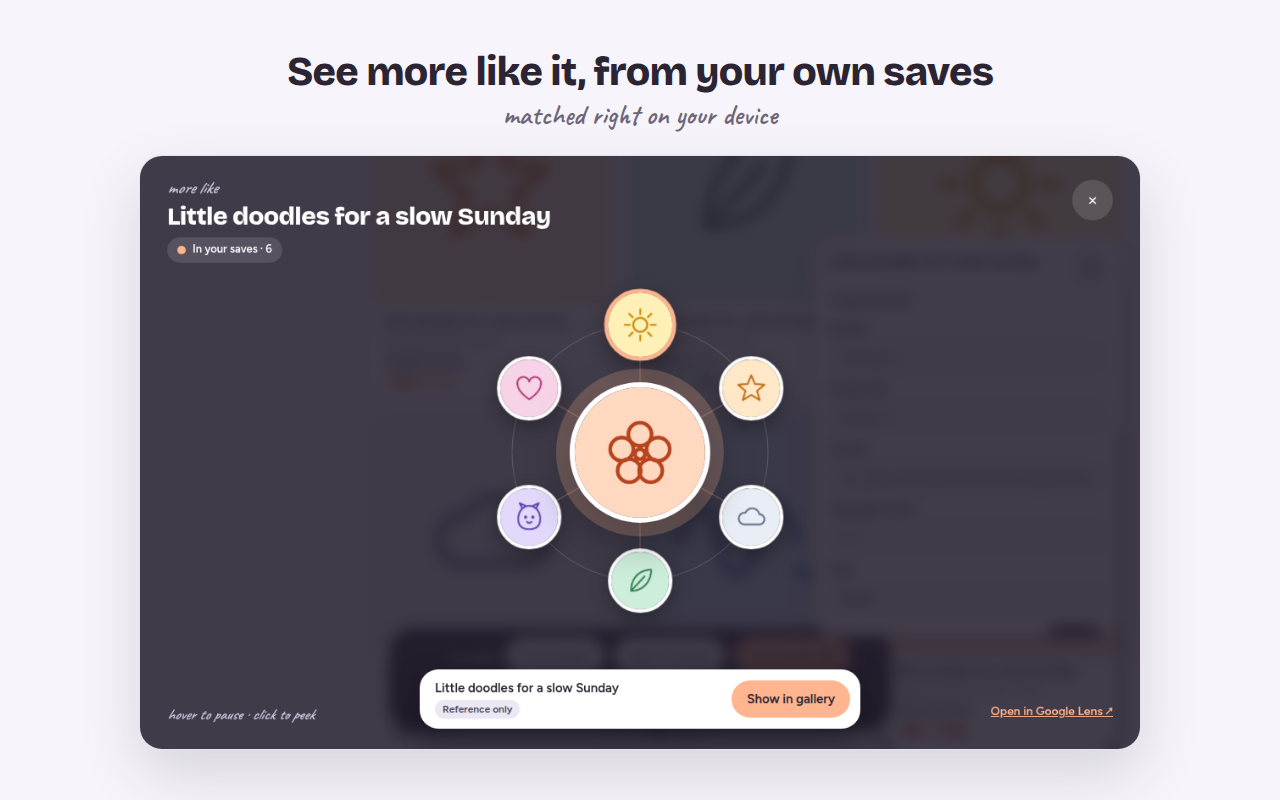
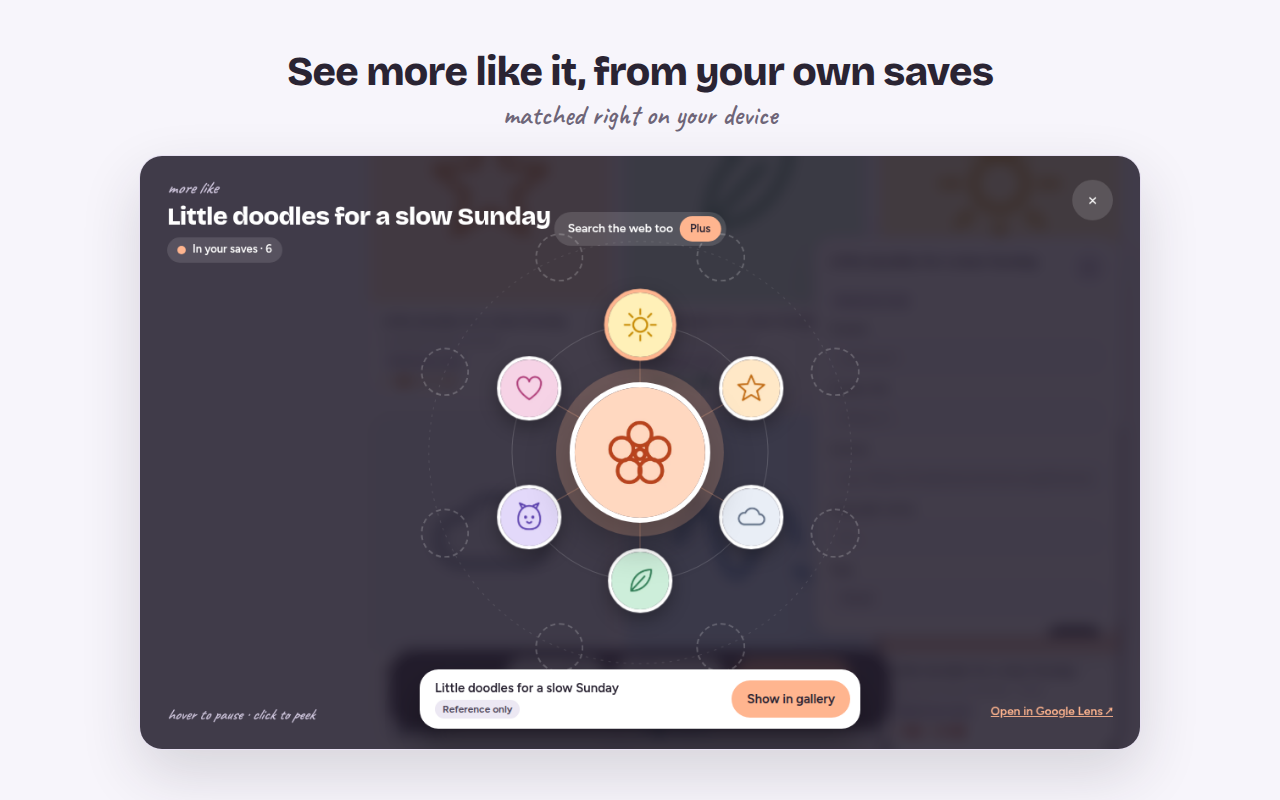
feat: locked 'around the web' ring in the orbit (Plus, coming with payments)
Find similar keeps the on-device 'your saves' ring for everyone; the outer
web ring is Plus-only (Google Cloud Vision behind a license-checking server,
built with Plan D). Until then it shows a 'Search the web too · Plus' invite.

Changed region(s): [[0.4375, 0.25, 0.5625, 0.3125], [0.3125, 0.7812, 0.4062, 0.8125]]

diff --git a/src/lib/orbit.ts b/src/lib/orbit.ts
@@ -16,16 +16,22 @@ export interface OrbitData {
   loading?: boolean;
   failed?: boolean;
   lensUrl: string | null;
+  /** Outer "around the web" ring. Plus-only; 'locked' shows the invitation (v1.2 spec §11). */
+  web?: { state: 'locked' };
 }
 
 export interface OrbitHandlers {
   onClose(): void;
   onShowInGallery(id: string): void;
+  /** Called when a free user taps "Search the web too · Plus". */
+  onUnlock?(): void;
 }
 
 const MAX = 6;
 const STAGE = 760;
 const RING = 200;
+const OUTER = 330;
+const OUTER_SLOTS = 8;
 
 export const orbitCss = `
 .orbit { position: fixed; inset: 0; z-index: 2147483647; font: 500 15px/1.4 var(--body, system-ui, sans-serif); color: #FFFFFF; }
@@ -51,6 +57,10 @@ export const orbitCss = `
 .orb:focus-visible, .close:focus-visible, .card button:focus-visible { outline: 3px solid #FFB58F; outline-offset: 3px; }
 .orb img, .center img { width: 100%; height: 100%; object-fit: cover; display: block; }
 .center { position: absolute; left: 50%; top: 50%; width: calc(var(--s) * ${220 / STAGE}); height: calc(var(--s) * ${220 / STAGE}); transform: translate(-50%, -50%); border-radius: 50%; overflow: hidden; border: 6px solid #FFFFFF; background: #3A3245; box-shadow: 0 0 0 16px rgba(255,181,143,0.22), 0 20px 50px rgba(0,0,0,0.35); }
+.ghost { position: absolute; width: calc(var(--s) * ${76 / STAGE}); height: calc(var(--s) * ${76 / STAGE}); transform: translate(-50%, -50%); border-radius: 50%; border: 2px dashed rgba(255,255,255,0.22); }
+.unlock { position: absolute; left: 50%; top: calc(50% - var(--s) * ${(OUTER + 46) / STAGE}); transform: translateX(-50%); display: flex; align-items: center; gap: 8px; height: 40px; padding: 0 6px 0 16px; border: 0; border-radius: 999px; background: rgba(255,255,255,0.14); color: #FFFFFF; font: inherit; font-size: 14px; font-weight: 600; white-space: nowrap; cursor: pointer; }
+.unlock b { height: 30px; display: inline-flex; align-items: center; padding: 0 12px; border-radius: 999px; background: #FFB58F; color: #2A2433; font-size: 13px; }
+.unlock:focus-visible { outline: 3px solid #FFB58F; outline-offset: 3px; }
 .note { position: absolute; left: 50%; top: calc(50% + var(--s) * 0.2); transform: translateX(-50%); width: min(420px, 80vw); text-align: center; font: italic 600 20px/1.3 var(--hand, system-ui, sans-serif); color: #EDE7F5; }
 .card { position: absolute; left: 50%; bottom: 24px; transform: translateX(-50%); width: min(520px, calc(100vw - 32px)); display: flex; align-items: center; gap: 14px; padding: 12px 12px 12px 18px; border-radius: 22px; background: #FFFFFF; color: #2A2433; box-shadow: 0 18px 40px rgba(0,0,0,0.3); }
 .card .text { display: flex; flex-direction: column; gap: 3px; flex: 1; min-width: 0; }
@@ -89,6 +99,7 @@ export function openOrbit(root: ShadowRoot | HTMLElement, data: OrbitData, handl
 
   let current = data;
   let picked: string | undefined;
+  let plusNote = false;
 
   function close() {
     document.removeEventListener('keydown', onKey, true);
@@ -152,6 +163,25 @@ export function openOrbit(root: ShadowRoot | HTMLElement, data: OrbitData, handl
       spin.append(slot);
     });
 
+    if (d.web?.state === 'locked') {
+      ring.append(svg('circle', { cx: STAGE / 2, cy: STAGE / 2, r: OUTER, fill: 'none', stroke: 'rgba(255,255,255,0.10)', 'stroke-width': 1.5, 'stroke-dasharray': '4 8' }));
+      for (let i = 0; i < OUTER_SLOTS; i++) {
+        const a = (i / OUTER_SLOTS) * Math.PI * 2 - Math.PI / 2 + Math.PI / OUTER_SLOTS;
+        const ghost = el('div', 'ghost');
+        ghost.style.left = `${((STAGE / 2 + OUTER * Math.cos(a)) / STAGE) * 100}%`;
+        ghost.style.top = `${((STAGE / 2 + OUTER * Math.sin(a)) / STAGE) * 100}%`;
+        stage.append(ghost);
+      }
+      const unlock = el('button', 'unlock', 'Search the web too ');
+      unlock.type = 'button';
+      unlock.append(el('b', '', 'Plus'));
+      unlock.addEventListener('click', () => {
+        if (handlers.onUnlock) handlers.onUnlock();
+        else { plusNote = true; render(); }
+      });
+      stage.append(unlock);
+    }
+
     const center = el('div', 'center');
     const cimg = el('img');
     cimg.alt = d.title;
@@ -159,7 +189,7 @@ export function openOrbit(root: ShadowRoot | HTMLElement, data: OrbitData, handl
     center.append(cimg);
     stage.append(ring, spin, center);
 
-    const note = noteText(d, results.length);
+    const note = plusNote ? 'Web search is coming with moodoodle Plus, along with unlimited boards and downloads.' : noteText(d, results.length);
     if (note) stage.append(el('p', 'note', note));
 
     overlay.append(backdrop, head, closeBtn, stage, el('span', 'hint', 'hover to pause · click to peek'));

diff --git a/src/lib/orbit.test.ts b/src/lib/orbit.test.ts
@@ -84,3 +84,28 @@ describe('openOrbit', () => {
     expect(host.querySelector('a.lens')).toBeNull();
   });
 });
+
+describe('web ring', () => {
+  it('shows a locked "Search the web too · Plus" ring around your saves', () => {
+    const onUnlock = vi.fn();
+    openOrbit(host, data({ web: { state: 'locked' } }), { onClose: vi.fn(), onShowInGallery: vi.fn(), onUnlock });
+    expect(host.querySelectorAll('.ghost')).toHaveLength(8);
+    const pill = host.querySelector<HTMLButtonElement>('.unlock')!;
+    expect(pill.textContent).toContain('Search the web too');
+    pill.click();
+    expect(onUnlock).toHaveBeenCalled();
+  });
+  it('has no web ring when none is given', () => {
+    openOrbit(host, data(), { onClose: vi.fn(), onShowInGallery: vi.fn() });
+    expect(host.querySelectorAll('.ghost')).toHaveLength(0);
+    expect(host.querySelector('.unlock')).toBeNull();
+  });
+});
+
+describe('web ring before Plus exists', () => {
+  it('explains Plus is coming when there is nowhere to upgrade yet', () => {
+    openOrbit(host, data({ web: { state: 'locked' } }), { onClose: vi.fn(), onShowInGallery: vi.fn() });
+    host.querySelector<HTMLButtonElement>('.unlock')!.click();
+    expect(host.textContent).toContain('Web search is coming with moodoodle Plus');
+  });
+});

diff --git a/src/lib/findsimilar.ts b/src/lib/findsimilar.ts
@@ -61,6 +61,8 @@ export function toOrbitData(res: SimilarResult, center: { title: string; centerS
     learning: res.learning,
     failed: res.failed,
     lensUrl: res.lensUrl,
+    // Web results arrive with Plus (Plan D); until then the outer ring invites people to upgrade.
+    web: { state: 'locked' },
     results: res.results.map(({ image, thumb }) => ({
       id: image.id,
       src: thumb,

diff --git a/docs/specs/2026-10-07-boards-and-credits.md b/docs/specs/2026-10-07-boards-and-credits.md
@@ -276,9 +276,11 @@ designed in the mockup canvas ("Find similar: orbit overlay"):
 | Inner: your saves | On-device image embeddings (Transformers.js with a CLIP-style model) computed when an image is kept; nearest neighbours by cosine similarity | Free | Nothing leaves the device |
 | Outer: the web | Needs a visual-search API (e.g. Google Cloud Vision web detection, ~$3.50 per 1,000 searches; SerpApi Google Lens, from $25 per 1,000). Google Lens itself has no public API, and scraping it would break Google's terms and the store's rules | Paid per search; the key must sit behind a small server we run | The image URL goes to our server and the API provider; needs a privacy-policy update and the CWS disclosure |
 
-**Decision (2026-10-07): inner ring only for now.** v1.2 ships the overlay with your-saves results and the
-"Open in Google Lens ↗" link. No server, no API cost, nothing new leaves the device. The outer ring is parked
-until Plus is selling; when it returns it'll be Plus-only behind a small key-holding server.
+**Decision (2026-10-08): both rings.** The inner ring (your saves, on-device) ships for everyone in v1.2.
+The outer ring (web results) is **Plus-only**, using **Google Cloud Vision web detection** through a small server
+of ours that holds the API key and only answers requests carrying a valid Dodo license (so the key can't be
+abused). It's built together with payments (Plan D). Until then, the outer ring shows a locked
+*"Search the web too · Plus"* invitation. Google Lens is never scraped or framed; "Open in Google Lens ↗" stays a link.
 
 Empty and edge states for v1.2:
 - Fewer than 6 similar saves: show the ones found; with none, the center image shows the line
